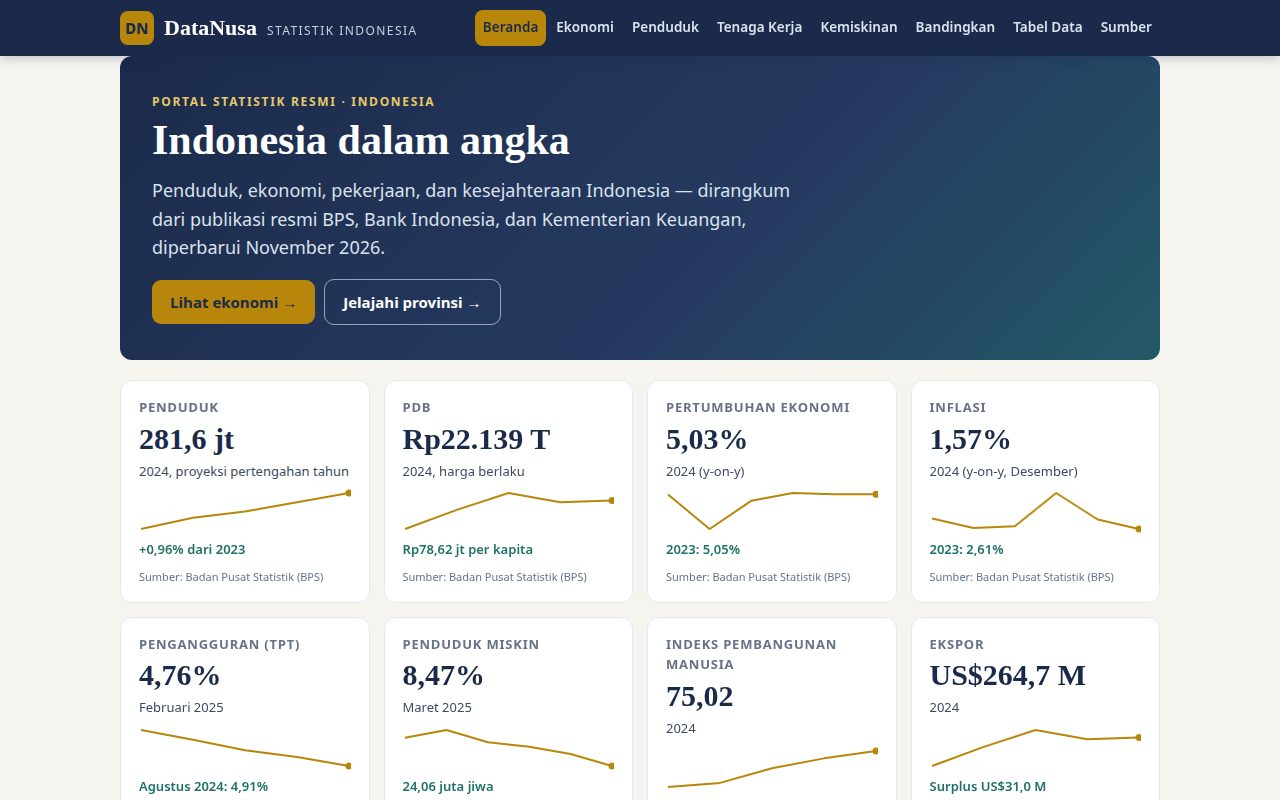
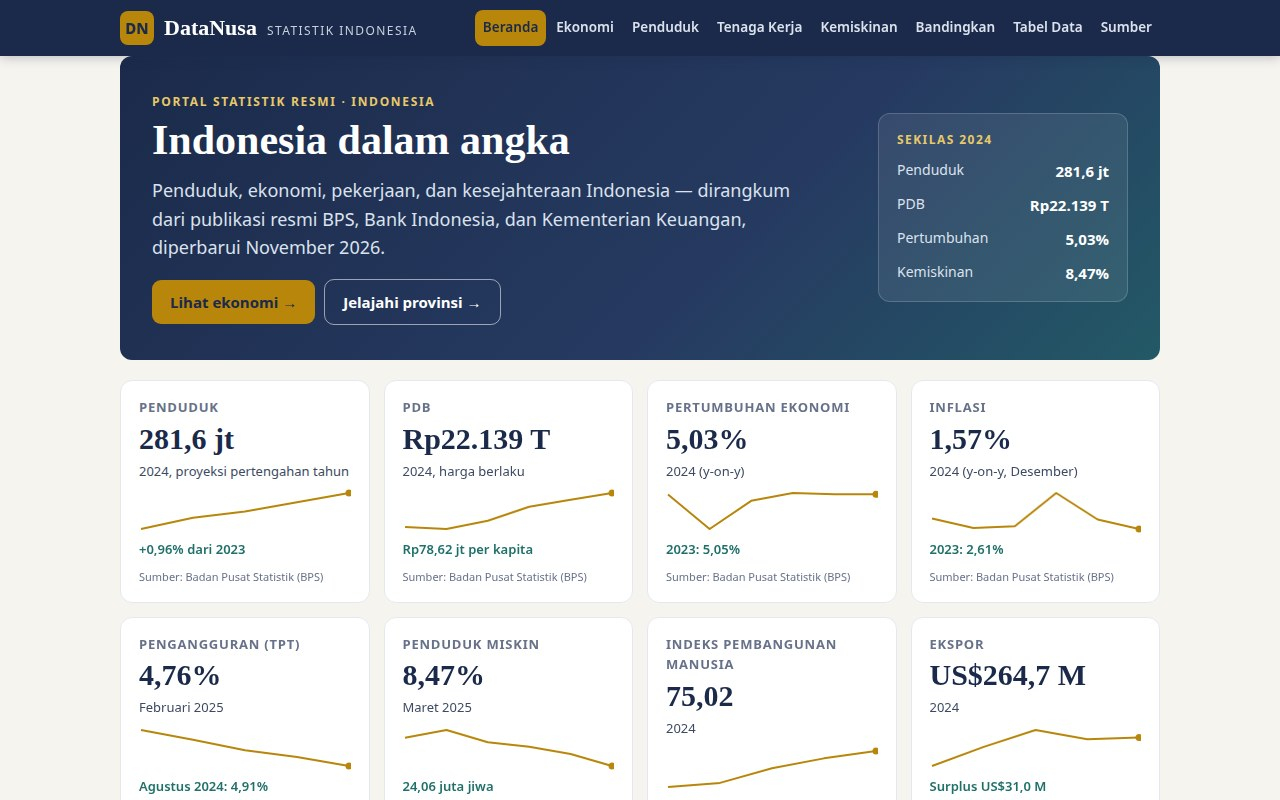
Fix audit R1: provinsi BPS 2024 benar (M1), surplus 56 bulan (M2), LICENSE SPDX baris 1, seri PDB, topik/homepage repo, tbl scroll, kosmetik hero + label grafik
- M1: PROVINCES 15 besar BPS Proyeksi Interim 2020-2023 (pertengahan 2024):
  NTT 5,66 / NTB 5,65 / Aceh 5,55 masuk; Bali/Kaltim/DIY keluar; 9 nilai dikoreksi
  (Jabar 50,35; Sumut 15,59; DKI 10,68; Sulsel 9,46; Lampung 9,42; Sumsel 8,84;
  Riau 6,73; Sumbar 5,84; Kalbar 5,70); urutan menurun; bar Bandingkan pakai max dinamis
- M2: surplus neraca dagang 59 -> 56 bulan beruntun (BI/BPS 15 Jan 2025)
- m1: LICENSE susun ulang persis starter (SPDX baris 1)
- m2: seri PDB harga berlaku 2019-2024 ditambahkan; kartu PDB pakai spark PDB
  (2020: 15.443 T, revisi BPS/FRED - bukan 15.434)
- m5: semua tabel dibungkus .tbl-wrap (overflow-x:auto)
- m6: TPT 'lima pembacaan survei beruntun'; label titik tepi grafik digeser ke dalam;
  hero Beranda tambah kotak 'Sekilas 2024'
- Screenshot 1-4 di-retake via Playwright (0 console error); dossier deterministik 2x

diff --git a/app/pages.js b/app/pages.js
@@ -57,7 +57,7 @@ function yearTable(series) {
   const rows = series.points
     .map(([y, v]) => `<tr><td>${y}</td><td>${idNumber(v, series.unit === "rasio" ? 3 : 2)}</td></tr>`)
     .join("");
-  return `<table class="tbl"><thead><tr><th>Tahun</th><th>${esc(series.heading)}</th></tr></thead><tbody>${rows}</tbody></table>`;
+  return `<div class="tbl-wrap"><table class="tbl"><thead><tr><th>Tahun</th><th>${esc(series.heading)}</th></tr></thead><tbody>${rows}</tbody></table></div>`;
 }
 
 // Daftarkan grafik halaman ini supaya digambar sekarang + saat resize.
@@ -81,6 +81,7 @@ function pageHome() {
   const cards = HEADLINE.map(statCard).join("");
   return `
   <section class="hero">
+    <div class="hero-main">
     <p class="kicker">Portal statistik resmi · Indonesia</p>
     <h1>Indonesia dalam angka</h1>
     <p class="lede">Penduduk, ekonomi, pekerjaan, dan kesejahteraan Indonesia — dirangkum dari
@@ -89,6 +90,16 @@ function pageHome() {
       <a class="button" href="#/ekonomi">Lihat ekonomi →</a>
       <a class="button outline" href="#/penduduk">Jelajahi provinsi →</a>
     </div>
+    </div>
+    <aside class="hero-side" aria-label="Angka kunci 2024">
+      <p class="hero-side-title">Sekilas 2024</p>
+      <dl>
+        <div><dt>Penduduk</dt><dd>281,6 jt</dd></div>
+        <div><dt>PDB</dt><dd>Rp22.139 T</dd></div>
+        <div><dt>Pertumbuhan</dt><dd>5,03%</dd></div>
+        <div><dt>Kemiskinan</dt><dd>8,47%</dd></div>
+      </dl>
+    </aside>
   </section>
 
   <section class="stat-grid">${cards}</section>
@@ -112,12 +123,12 @@ function pageHome() {
 
   <section class="panel">
     <h2>Provinsi berpenduduk terbesar</h2>
-    <table class="tbl">
+    <div class="tbl-wrap"><table class="tbl">
       <thead><tr><th>#</th><th>Provinsi</th><th>Ibu kota</th><th>Penduduk 2024 (juta)</th><th>Pangsa</th></tr></thead>
       <tbody>
         ${PROVINCES.slice(0, 5).map((p, i) => `<tr><td>${i + 1}</td><td><a href="#/penduduk">${esc(p.province)}</a></td><td>${esc(p.city)}</td><td>${idNumber(p.millions)}</td><td>${idNumber((p.millions / 281.6) * 100, 1)}%</td></tr>`).join("")}
       </tbody>
-    </table>
+    </table></div>
     <p><a href="#/penduduk">Lihat semua 15 provinsi terbesar →</a></p>
     ${originLine(PROVINCES_SOURCE)}
   </section>`;
@@ -164,10 +175,10 @@ function pageEconomy() {
 
   <section class="panel">
     <h2>Keuangan negara &amp; moneter</h2>
-    <table class="tbl">
+    <div class="tbl-wrap"><table class="tbl">
       <thead><tr><th>Indikator</th><th>Nilai</th><th>Keterangan</th><th>Sumber</th></tr></thead>
       <tbody>${moneyRows}</tbody>
-    </table>
+    </table></div>
   </section>
 
   <section class="panel">
@@ -175,7 +186,7 @@ function pageEconomy() {
     <ul class="points">
       <li><strong>Pertumbuhan 5,03%</strong> pada 2024 ditopang konsumsi rumah tangga dan investasi; kontraksi 2020 (-2,07%) adalah satu-satunya tahun negatif dalam enam tahun terakhir.</li>
       <li><strong>Inflasi 1,57%</strong> pada 2024 adalah yang terendah sejak 2020 dan berada dalam sasaran Bank Indonesia (2,5% ±1%).</li>
-      <li><strong>Ekspor 2024 (US$264,7 M)</strong> turun dari rekor 2022 (US$291,9 M) seiring normalisasi harga komoditas, tetapi neraca dagang tetap surplus 59 bulan beruntun hingga akhir 2024.</li>
+      <li><strong>Ekspor 2024 (US$264,7 M)</strong> turun dari rekor 2022 (US$291,9 M) seiring normalisasi harga komoditas, tetapi neraca dagang tetap surplus 56 bulan beruntun hingga akhir 2024.</li>
     </ul>
   </section>`;
 }
@@ -214,12 +225,12 @@ function pagePopulation() {
     <h2>Provinsi berpenduduk terbesar, 2024</h2>
     <p class="tools"><label>Cari provinsi: <input id="prov-q" type="search" placeholder="mis. Jawa Barat" aria-label="Cari provinsi"></label>
     <span id="prov-count">${PROVINCES.length} provinsi ditampilkan</span></p>
-    <table class="tbl" id="prov-tbl">
+    <div class="tbl-wrap"><table class="tbl" id="prov-tbl">
       <thead><tr><th><button class="sort-btn" data-key="rank">#</button></th>
       <th><button class="sort-btn" data-key="name">Provinsi</button></th><th>Ibu kota</th>
       <th><button class="sort-btn" data-key="pop">Penduduk 2024 (juta)</button></th><th>Pangsa</th></tr></thead>
       <tbody>${rows}</tbody>
-    </table>
+    </table></div>
     ${originLine(PROVINCES_SOURCE)}
   </section>`;
 }
@@ -291,7 +302,7 @@ function pageJobs() {
   <section class="panel">
     <h2>Membaca angka pengangguran</h2>
     <ul class="points">
-      <li><strong>TPT turun lima tahun beruntun</strong> dari puncak pandemi 7,07% (Agustus 2020) menjadi 4,91% (Agustus 2024) dan 4,76% (Februari 2025).</li>
+      <li><strong>TPT turun dalam lima pembacaan survei beruntun</strong> dari puncak pandemi 7,07% (Agustus 2020) menjadi 4,91% (Agustus 2024) dan 4,76% (Februari 2025).</li>
       <li><strong>Pengangguran perkotaan (5,73%) lebih tinggi</strong> daripada perdesaan (3,61%) pada Februari 2025 — pola yang konsisten setiap tahun.</li>
       <li><strong>Upah rata-rata buruh Rp3,09 juta/bulan</strong> (Agustus 2024), naik dari Rp2,87 juta pada Agustus 2023.</li>
     </ul>
@@ -320,7 +331,7 @@ function pagePoverty() {
 
   <section class="panel">
     <h2>Angka kunci</h2>
-    <table class="tbl">
+    <div class="tbl-wrap"><table class="tbl">
       <thead><tr><th>Indikator</th><th>Nilai</th><th>Keterangan</th></tr></thead>
       <tbody>
         <tr><td>Penduduk miskin</td><td><strong>24,06 juta jiwa</strong></td><td>Maret 2025</td></tr>
@@ -329,7 +340,7 @@ function pagePoverty() {
         <tr><td>Kemiskinan perdesaan</td><td><strong>11,03%</strong></td><td>Maret 2025</td></tr>
         <tr><td>Rasio gini</td><td><strong>0,375</strong></td><td>Maret 2025</td></tr>
       </tbody>
-    </table>
+    </table></div>
     ${originLine("Badan Pusat Statistik (BPS)", "Profil Kemiskinan di Indonesia, Maret 2025")}
   </section>
 
@@ -387,19 +398,19 @@ function provinceTable(a, b) {
   const pb = PROVINCES.find((p) => p.province === b);
   if (!pa || !pb) return "<p>Pilih dua provinsi.</p>";
   const bar = (p) => {
-    const pct = (p.millions / 49.94) * 100;
+    const pct = (p.millions / Math.max(...PROVINCES.map((q) => q.millions))) * 100;
     return `<div class="bar"><span class="bar-fill" style="width:${pct.toFixed(1)}%"></span></div>`;
   };
   const bigger = pa.millions >= pb.millions ? pa : pb;
   const smaller = pa.millions >= pb.millions ? pb : pa;
-  return `<table class="tbl">
+  return `<div class="tbl-wrap"><table class="tbl">
     <thead><tr><th></th><th>${esc(pa.province)}</th><th>${esc(pb.province)}</th></tr></thead>
     <tbody>
       <tr><td>Ibu kota</td><td>${esc(pa.city)}</td><td>${esc(pb.city)}</td></tr>
       <tr><td>Penduduk 2024</td><td><strong>${idNumber(pa.millions)} juta</strong>${bar(pa)}</td><td><strong>${idNumber(pb.millions)} juta</strong>${bar(pb)}</td></tr>
       <tr><td>Pangsa penduduk nasional</td><td>${idNumber((pa.millions / 281.6) * 100, 1)}%</td><td>${idNumber((pb.millions / 281.6) * 100, 1)}%</td></tr>
       <tr><td>Selisih</td><td colspan="2">${pa.province === pb.province ? "Provinsi yang sama." : `${esc(bigger.province)} lebih besar ${idNumber(bigger.millions - smaller.millions)} juta jiwa (${idNumber((bigger.millions / smaller.millions - 1) * 100, 0)}% lebih besar).`}</td></tr>
-    </tbody></table>`;
+    </tbody></table></div>`;
 }
 
 function yearTableCompare(ya, yb) {
@@ -419,13 +430,13 @@ function yearTableCompare(ya, yb) {
     return "+" + idNumber(vb - va) + " jt";
   })();
   const delta = (x, y) => (y - x >= 0 ? "+" : "") + idNumber(y - x) + " poin";
-  return `<table class="tbl">
+  return `<div class="tbl-wrap"><table class="tbl">
     <thead><tr><th>Indikator</th><th>${ya}</th><th>${yb}</th><th>Perubahan</th></tr></thead>
     <tbody>
       <tr><td>Pertumbuhan ekonomi</td><td>${idNumber(g1)}%</td><td>${idNumber(g2)}%</td><td>${delta(g1, g2)}</td></tr>
       <tr><td>Inflasi</td><td>${idNumber(i1)}%</td><td>${idNumber(i2)}%</td><td>${delta(i1, i2)}</td></tr>
       <tr><td>Jumlah penduduk</td><td>${popCell(ya)}</td><td>${popCell(yb)}</td><td>${popDiff}</td></tr>
-    </tbody></table>`;
+    </tbody></table></div>`;
 }
 
 function paintCompare() {
@@ -475,10 +486,10 @@ function pageData() {
 
   <section class="panel">
     <h2>Sosial &amp; digital</h2>
-    <table class="tbl">
+    <div class="tbl-wrap"><table class="tbl">
       <thead><tr><th>Indikator</th><th>Nilai</th><th>Keterangan</th><th>Sumber</th></tr></thead>
       <tbody>${SOCIAL.map((s) => `<tr><td>${esc(s.item)}</td><td><strong>${esc(s.figure)}</strong></td><td>${esc(s.detail)}</td><td>${esc(s.origin)}</td></tr>`).join("")}</tbody>
-    </table>
+    </table></div>
   </section>`;
 }
 
@@ -521,7 +532,7 @@ function pageSources() {
 
   <section class="panel">
     <h2>Sumber data</h2>
-    <table class="tbl">
+    <div class="tbl-wrap"><table class="tbl">
       <thead><tr><th>Sumber</th><th>Yang dipakai</th></tr></thead>
       <tbody>
         <tr><td><strong>Badan Pusat Statistik (BPS)</strong></td><td>Pertumbuhan ekonomi, inflasi, penduduk, pengangguran, kemiskinan, gini, IPM, ekspor-impor, upah, garis kemiskinan, struktur umur, penduduk provinsi.</td></tr>
@@ -529,7 +540,7 @@ function pageSources() {
         <tr><td><strong>Kementerian Keuangan</strong></td><td>Realisasi APBN 2024: pendapatan, belanja, defisit.</td></tr>
         <tr><td><strong>APJII</strong></td><td>Survei penetrasi internet 2024.</td></tr>
       </tbody>
-    </table>
+    </table></div>
     <p>Semua angka adalah angka resmi yang dipublikasikan lembaga tersebut; situs ini tidak menghitung ulang angka mentah kecuali penjumlahan dan pangsa yang ditandai sebagai hitungan situs.</p>
   </section>
 

diff --git a/app/data.js b/app/data.js
@@ -22,7 +22,7 @@ export const ORIGIN = {
 // ---- Kartu angka utama: angka terbaru yang tersedia per indikator ----
 export const HEADLINE = [
   { key: "populasi", name: "Penduduk", figure: "281,6 jt", detail: "2024, proyeksi pertengahan tahun", change: "+0,96% dari 2023", origin: ORIGIN.bps, spark: "populasi" },
-  { key: "pdb", name: "PDB", figure: "Rp22.139 T", detail: "2024, harga berlaku", change: "Rp78,62 jt per kapita", origin: ORIGIN.bps, spark: "ekspor" },
+  { key: "pdb", name: "PDB", figure: "Rp22.139 T", detail: "2024, harga berlaku", change: "Rp78,62 jt per kapita", origin: ORIGIN.bps, spark: "pdb" },
   { key: "tumbuh", name: "Pertumbuhan ekonomi", figure: "5,03%", detail: "2024 (y-on-y)", change: "2023: 5,05%", origin: ORIGIN.bps, spark: "pertumbuhan" },
   { key: "inflasi", name: "Inflasi", figure: "1,57%", detail: "2024 (y-on-y, Desember)", change: "2023: 2,61%", origin: ORIGIN.bps, spark: "inflasi" },
   { key: "tpt", name: "Pengangguran (TPT)", figure: "4,76%", detail: "Februari 2025", change: "Agustus 2024: 4,91%", origin: ORIGIN.bps, spark: "pengangguran" },
@@ -53,6 +53,13 @@ export const SERIES = {
     origin: ORIGIN.bps,
     points: [[2020, 270.2], [2021, 273.75], [2022, 275.77], [2023, 278.69], [2024, 281.6]],
     remark: "2020 hasil Sensus Penduduk; 2021–2024 proyeksi pertengahan tahun.",
+  },
+  pdb: {
+    heading: "PDB harga berlaku (Rp triliun)",
+    unit: "Rp T",
+    origin: ORIGIN.bps,
+    points: [[2019, 15833], [2020, 15443], [2021, 16977], [2022, 19588], [2023, 20892], [2024, 22139]],
+    remark: "PDB atas dasar harga berlaku. 2020 turun akibat pandemi; 2022–2024 pulih dan naik.",
   },
   pengangguran: {
     heading: "Tingkat pengangguran terbuka (%)",
@@ -138,21 +145,21 @@ export const AGE_GROUPS = {
 
 // ---- Provinsi berpenduduk terbesar, 2024 (juta jiwa, BPS) ----
 export const PROVINCES = [
-  { province: "Jawa Barat", city: "Bandung", millions: 49.94 },
+  { province: "Jawa Barat", city: "Bandung", millions: 50.35 },
   { province: "Jawa Timur", city: "Surabaya", millions: 41.81 },
   { province: "Jawa Tengah", city: "Semarang", millions: 37.89 },
-  { province: "Sumatera Utara", city: "Medan", millions: 16.03 },
+  { province: "Sumatera Utara", city: "Medan", millions: 15.59 },
   { province: "Banten", city: "Serang", millions: 12.43 },
-  { province: "DKI Jakarta", city: "Jakarta", millions: 10.56 },
-  { province: "Sulawesi Selatan", city: "Makassar", millions: 9.51 },
-  { province: "Lampung", city: "Bandar Lampung", millions: 9.33 },
-  { province: "Sumatera Selatan", city: "Palembang", millions: 9.02 },
-  { province: "Riau", city: "Pekanbaru", millions: 6.96 },
-  { province: "Sumatera Barat", city: "Padang", millions: 6.03 },
-  { province: "Kalimantan Barat", city: "Pontianak", millions: 5.8 },
-  { province: "Kalimantan Timur", city: "Samarinda", millions: 4.04 },
-  { province: "Bali", city: "Denpasar", millions: 4.41 },
-  { province: "DI Yogyakarta", city: "Yogyakarta", millions: 3.78 },
+  { province: "DKI Jakarta", city: "Jakarta", millions: 10.68 },
+  { province: "Sulawesi Selatan", city: "Makassar", millions: 9.46 },
+  { province: "Lampung", city: "Bandar Lampung", millions: 9.42 },
+  { province: "Sumatera Selatan", city: "Palembang", millions: 8.84 },
+  { province: "Riau", city: "Pekanbaru", millions: 6.73 },
+  { province: "Sumatera Barat", city: "Padang", millions: 5.84 },
+  { province: "Kalimantan Barat", city: "Pontianak", millions: 5.7 },
+  { province: "Nusa Tenggara Timur", city: "Kupang", millions: 5.66 },
+  { province: "Nusa Tenggara Barat", city: "Mataram", millions: 5.65 },
+  { province: "Aceh", city: "Banda Aceh", millions: 5.55 },
 ];
 
 export const PROVINCES_SOURCE =

diff --git a/app/styles.css b/app/styles.css
@@ -123,7 +123,34 @@ main { padding: 28px 20px 40px; }
   border-radius: var(--corner);
   padding: 36px 32px;
   margin-bottom: 20px;
+  display: flex;
+  gap: 28px;
+  align-items: center;
 }
+
+.hero-main { flex: 1; min-width: 0; }
+
+.hero-side {
+  flex: 0 0 250px;
+  background: rgba(255, 255, 255, 0.08);
+  border: 1px solid rgba(255, 255, 255, 0.18);
+  border-radius: 12px;
+  padding: 16px 18px;
+}
+
+.hero-side-title {
+  margin: 0 0 10px;
+  font-size: 12px;
+  font-weight: 700;
+  letter-spacing: 0.12em;
+  text-transform: uppercase;
+  color: #e8c96a;
+}
+
+.hero-side dl { margin: 0; display: grid; gap: 10px; }
+.hero-side dl div { display: flex; justify-content: space-between; gap: 12px; }
+.hero-side dt { color: #dbe2ee; font-size: 14px; }
+.hero-side dd { margin: 0; font-weight: 700; color: #fff; font-size: 15px; white-space: nowrap; }
 
 .hero h1 {
   font-family: Georgia, "Times New Roman", serif;
@@ -229,6 +256,8 @@ canvas { display: block; width: 100%; }
 .points li { margin-bottom: 10px; }
 
 .tbl { width: 100%; border-collapse: collapse; font-size: 15px; }
+.tbl-wrap { overflow-x: auto; }
+.tbl-wrap .tbl { min-width: 560px; }
 .tbl th, .tbl td { text-align: left; padding: 9px 10px; border-bottom: 1px solid var(--line); }
 .tbl thead th { font-size: 13px; text-transform: uppercase; letter-spacing: 0.05em; color: var(--faint); }
 .tbl tbody tr:hover { background: #faf8f2; }
@@ -283,6 +312,8 @@ canvas { display: block; width: 100%; }
 @media (max-width: 860px) {
   .stat-grid { grid-template-columns: repeat(2, 1fr); }
   .cols-2 { grid-template-columns: 1fr; }
+  .hero { flex-direction: column; align-items: stretch; }
+  .hero-side { flex: none; }
   .hero h1 { font-size: 32px; }
   .page-top h1 { font-size: 28px; }
   #main-nav { margin-left: 0; }

diff --git a/app/charts.js b/app/charts.js
@@ -113,7 +113,7 @@ export function lineChart(canvas, series, opts = {}) {
   // Titik + label nilai. Nilai negatif ditulis di bawah titik supaya
   // tidak menabrak garis yang turun tajam ke titik itu.
   ctx.font = "bold 11px system-ui, sans-serif";
-  ctx.textAlign = "center";
+  ctx.fillStyle = INK;
   values.forEach((v, i) => {
     ctx.beginPath();
     ctx.arc(xs[i], ys[i], 4, 0, Math.PI * 2);
@@ -123,12 +123,17 @@ export function lineChart(canvas, series, opts = {}) {
     ctx.lineWidth = 2;
     ctx.stroke();
     ctx.fillStyle = INK;
+    // Label titik tepi digeser ke dalam supaya tidak menabrak label sumbu Y
+    // (titik pertama) atau terpotong tepi kanan (titik terakhir).
+    const edge = i === 0 ? "first" : i === values.length - 1 ? "last" : "mid";
+    ctx.textAlign = edge === "first" ? "left" : edge === "last" ? "right" : "center";
+    const lx = edge === "first" ? xs[i] + 8 : edge === "last" ? xs[i] - 8 : xs[i];
     if (v < 0) {
       ctx.textBaseline = "top";
-      ctx.fillText(tickLabel(v), xs[i], ys[i] + 8);
+      ctx.fillText(tickLabel(v), lx, ys[i] + 8);
     } else {
       ctx.textBaseline = "bottom";
-      ctx.fillText(tickLabel(v), xs[i], ys[i] - 8);
+      ctx.fillText(tickLabel(v), lx, ys[i] - 8);
     }
   });
 }
